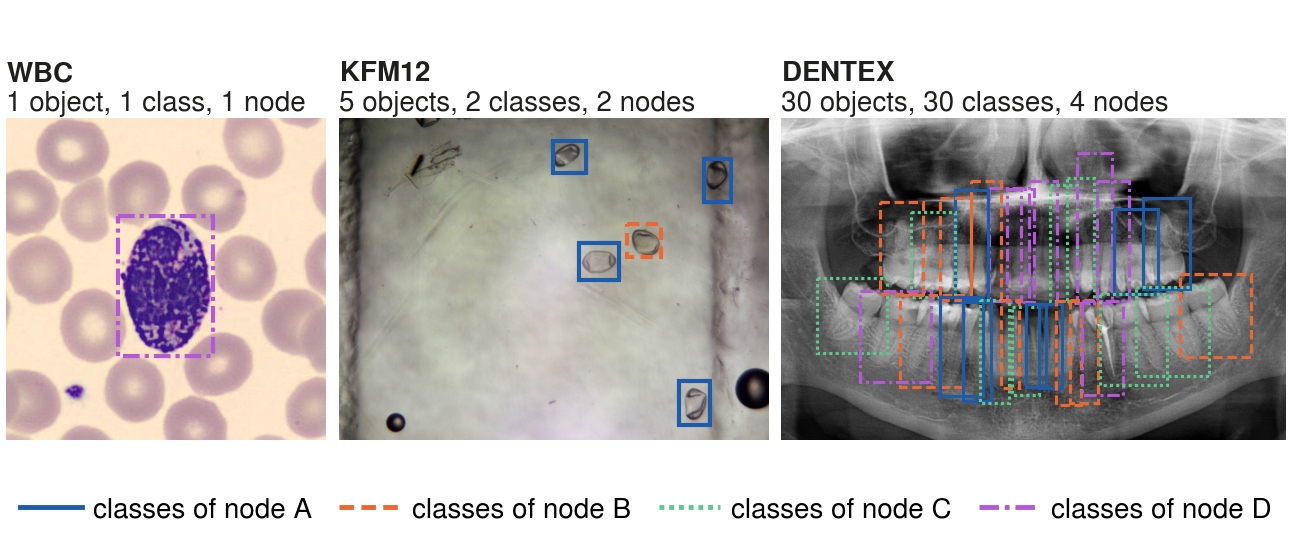
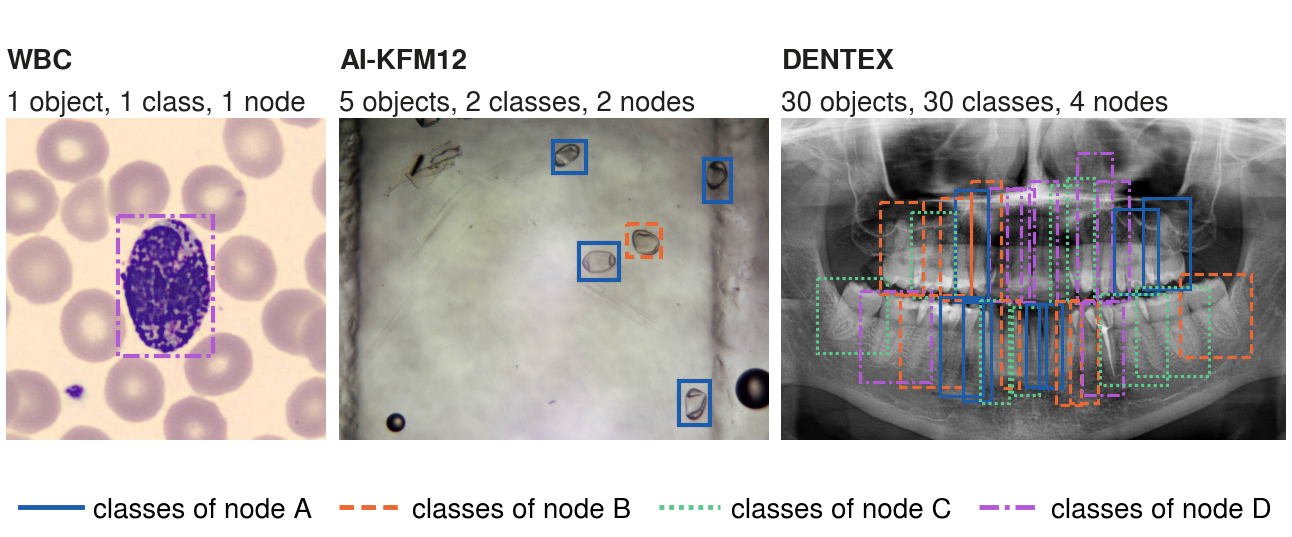
Zenodo Integration

Changed region(s): [[0.5882, 0.0894, 0.7121, 0.149], [0.2477, 0.0894, 0.3715, 0.149], [0.0, 0.0894, 0.0619, 0.149]]

diff --git a/cofy_system/tools/make_usecase_figure.py b/cofy_system/tools/make_usecase_figure.py
@@ -68,7 +68,7 @@ def main():
     plt.rcParams.update({"font.family": "sans-serif", "font.sans-serif": ["Nimbus Sans", "Liberation Sans", "DejaVu Sans"],
                          "font.size": 8, "axes.linewidth": 0, "pdf.fonttype": 42,
                          "mathtext.fontset": "custom", "mathtext.rm": "Nimbus Sans", "mathtext.bf": "Nimbus Sans:bold"})
-    order = [("wbc", "WBC"), ("kfm12", "KFM12"), ("dentex", "DENTEX")]
+    order = [("wbc", "WBC"), ("kfm12", "AI-KFM12"), ("dentex", "DENTEX")]
     picks = {ds: pick(ds) for ds, _ in order}
     def window(ds):
         """The whole image, or for DENTEX the dental arch: the boxes' extent with a 4 % margin."""
@@ -93,8 +93,10 @@ def main():
             col, ls = NODE[owner[c]]
             ax.add_patch(Rectangle((x1, y1), x2 - x1, y2 - y1, fill=False, ec=col, lw=0.9 if ds == "dentex" else 1.2, ls=ls))
         n_cls, n_own = len({c for c, *_ in b}), len({owner[c] for c, *_ in b})
-        ax.set_title(f"$\\bf{{{name}}}$\n{len(b)} object{'s' if len(b) > 1 else ''}, {n_cls} class{'es' if n_cls > 1 else ''}, "
-                     f"{n_own} node{'s' if n_own > 1 else ''}", fontsize=8, color=INK, loc="left", pad=2, linespacing=1.2)
+        ax.set_title(f"{len(b)} object{'s' if len(b) > 1 else ''}, {n_cls} class{'es' if n_cls > 1 else ''}, "
+                     f"{n_own} node{'s' if n_own > 1 else ''}", fontsize=8, color=INK, loc="left", pad=2)
+        ax.annotate(name, xy=(0, 1), xycoords="axes fraction", xytext=(0, 12.5), textcoords="offset points",
+                    fontsize=8, fontweight="bold", color=INK, ha="left", va="bottom")   # bold name above
     handles = [Line2D([], [], color=col, lw=1.4, ls=ls, label=f"classes of {n.replace('_', ' ')}") for n, (col, ls) in NODE.items()]
     fig.legend(handles=handles, loc="lower center", ncol=4, frameon=False, fontsize=8, bbox_to_anchor=(0.5, -0.02),
                handlelength=2.2, columnspacing=1.0, handletextpad=0.4)

diff --git a/cofy_system/tools/make_results_figure.py b/cofy_system/tools/make_results_figure.py
@@ -3,9 +3,9 @@
 
 (a) Fed:Cent per use case and scheme on seeds 100-109: every seed, the mean and its two-sided 95 %
     t-interval (Eq. 2 of the article), with the 90 % and 95 % levels.
-(b) KFM12, per class: retention (federated / centralized AP50, means over the ten seeds) against the
+(b) AI-KFM12, per class: retention (federated / centralized AP50, means over the ten seeds) against the
     class's training boxes per seed, counted in the images each node trained on (evidence/study/*/subsets,
-    which use the file names of the public KFM12 release). The boxes are read from the release's labels
+    which use the file names of the public AI-KFM12 release). The boxes are read from the release's labels
     (--kfm12-release PATH), or, on the authors' machine, from data/study/ through data/kfm12_name_map.csv.
 
     python tools/make_results_figure.py [--kfm12-release PATH]
@@ -27,7 +27,7 @@ OUT = ROOT / "paper/figures/results.pdf"
 SEEDS = range(100, 110)
 T975 = {9: 2.262}
 SCHEMES = {"CWT": ("cwt.json", "bn+head", "#1f6f8b"), "FedAsync": ("fedasync.json", "acal_refresh", "#c8641c")}
-USE_CASES = [("kfm12", "KFM12"), ("wbc", "WBC"), ("dentex", "DENTEX")]
+USE_CASES = [("kfm12", "AI-KFM12"), ("wbc", "WBC"), ("dentex", "DENTEX")]
 
 
 def load(p):
@@ -120,7 +120,7 @@ def main():
     ax.set_xticks([90, 100, 120, 140, 160])
     ax.set_ylim(lo - 0.3, 0.55)
 
-    # (b) KFM12 per-class retention against training boxes
+    # (b) AI-KFM12 per-class retention against training boxes
     import sys
     release = sys.argv[sys.argv.index("--kfm12-release") + 1] if "--kfm12-release" in sys.argv else None
     boxes = train_boxes("kfm12", release)

diff --git a/cofy_system/tools/make_attack_figure.py b/cofy_system/tools/make_attack_figure.py
@@ -51,7 +51,7 @@ OUT = ROOT / "paper/figures/attacks.pdf"
 CACHE = OUT.with_name("attacks_cache.json")
 RED, BLUE, INK, MUTED = "#e34948", "#2a78d6", "#1f1f1e", "#6b6a64"   # attacker's classes / others (validated pair)
 CONF = 0.25
-DISPLAY = {"kfm12": "KFM12", "wbc": "WBC", "dentex": "DENTEX"}
+DISPLAY = {"kfm12": "AI-KFM12", "wbc": "WBC", "dentex": "DENTEX"}
 
 
 def letterbox(path, size):
@@ -413,7 +413,7 @@ def main():
         note(ax, "no detection")
     ax = axes[3, 4]; show(ax, ev_img, wwin, "(j) recalibrated"); dets(ax, d["recalibrated"], own_bn)
 
-    for row, lab in enumerate(("KFM12", "WBC", "DENTEX", "WBC models")):
+    for row, lab in enumerate(("AI-KFM12", "WBC", "DENTEX", "WBC models")):
         y = sum(axes[row, 0].get_position().bounds[1::2]) - axes[row, 0].get_position().height / 2
         fig.text(0.022, y, lab, rotation=90, ha="center", va="center", fontsize=8, color=MUTED)
     handles = [Line2D([], [], color=RED, lw=1.2, label="attacker's class(es)"),
